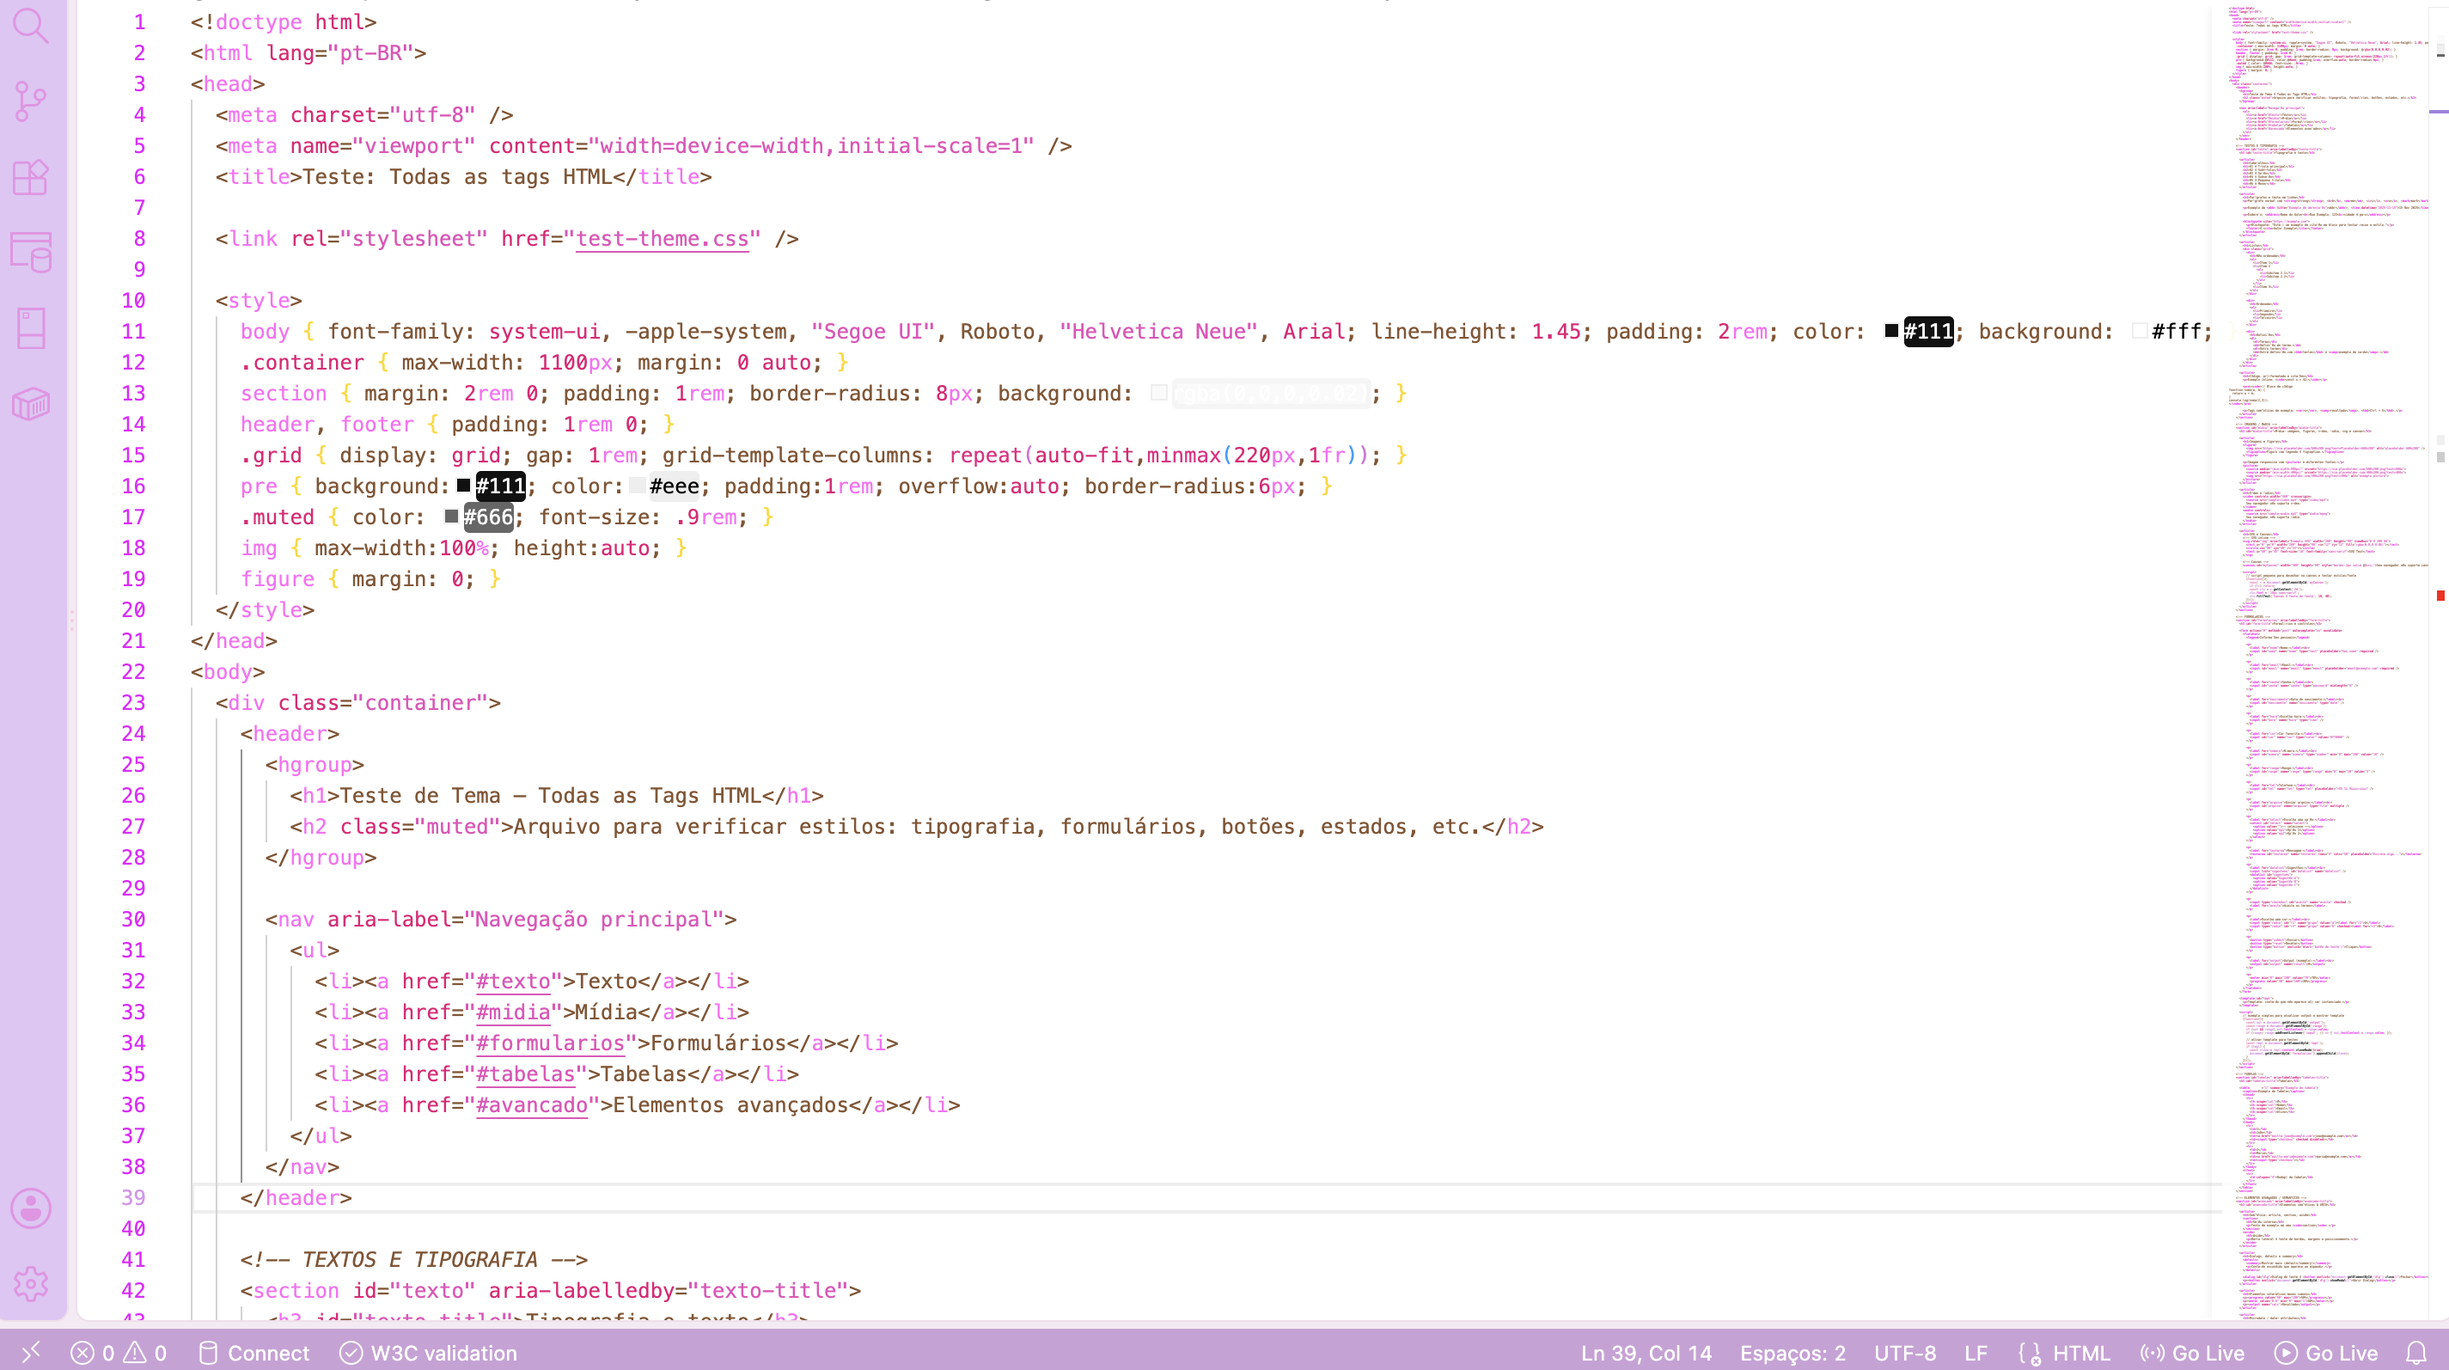
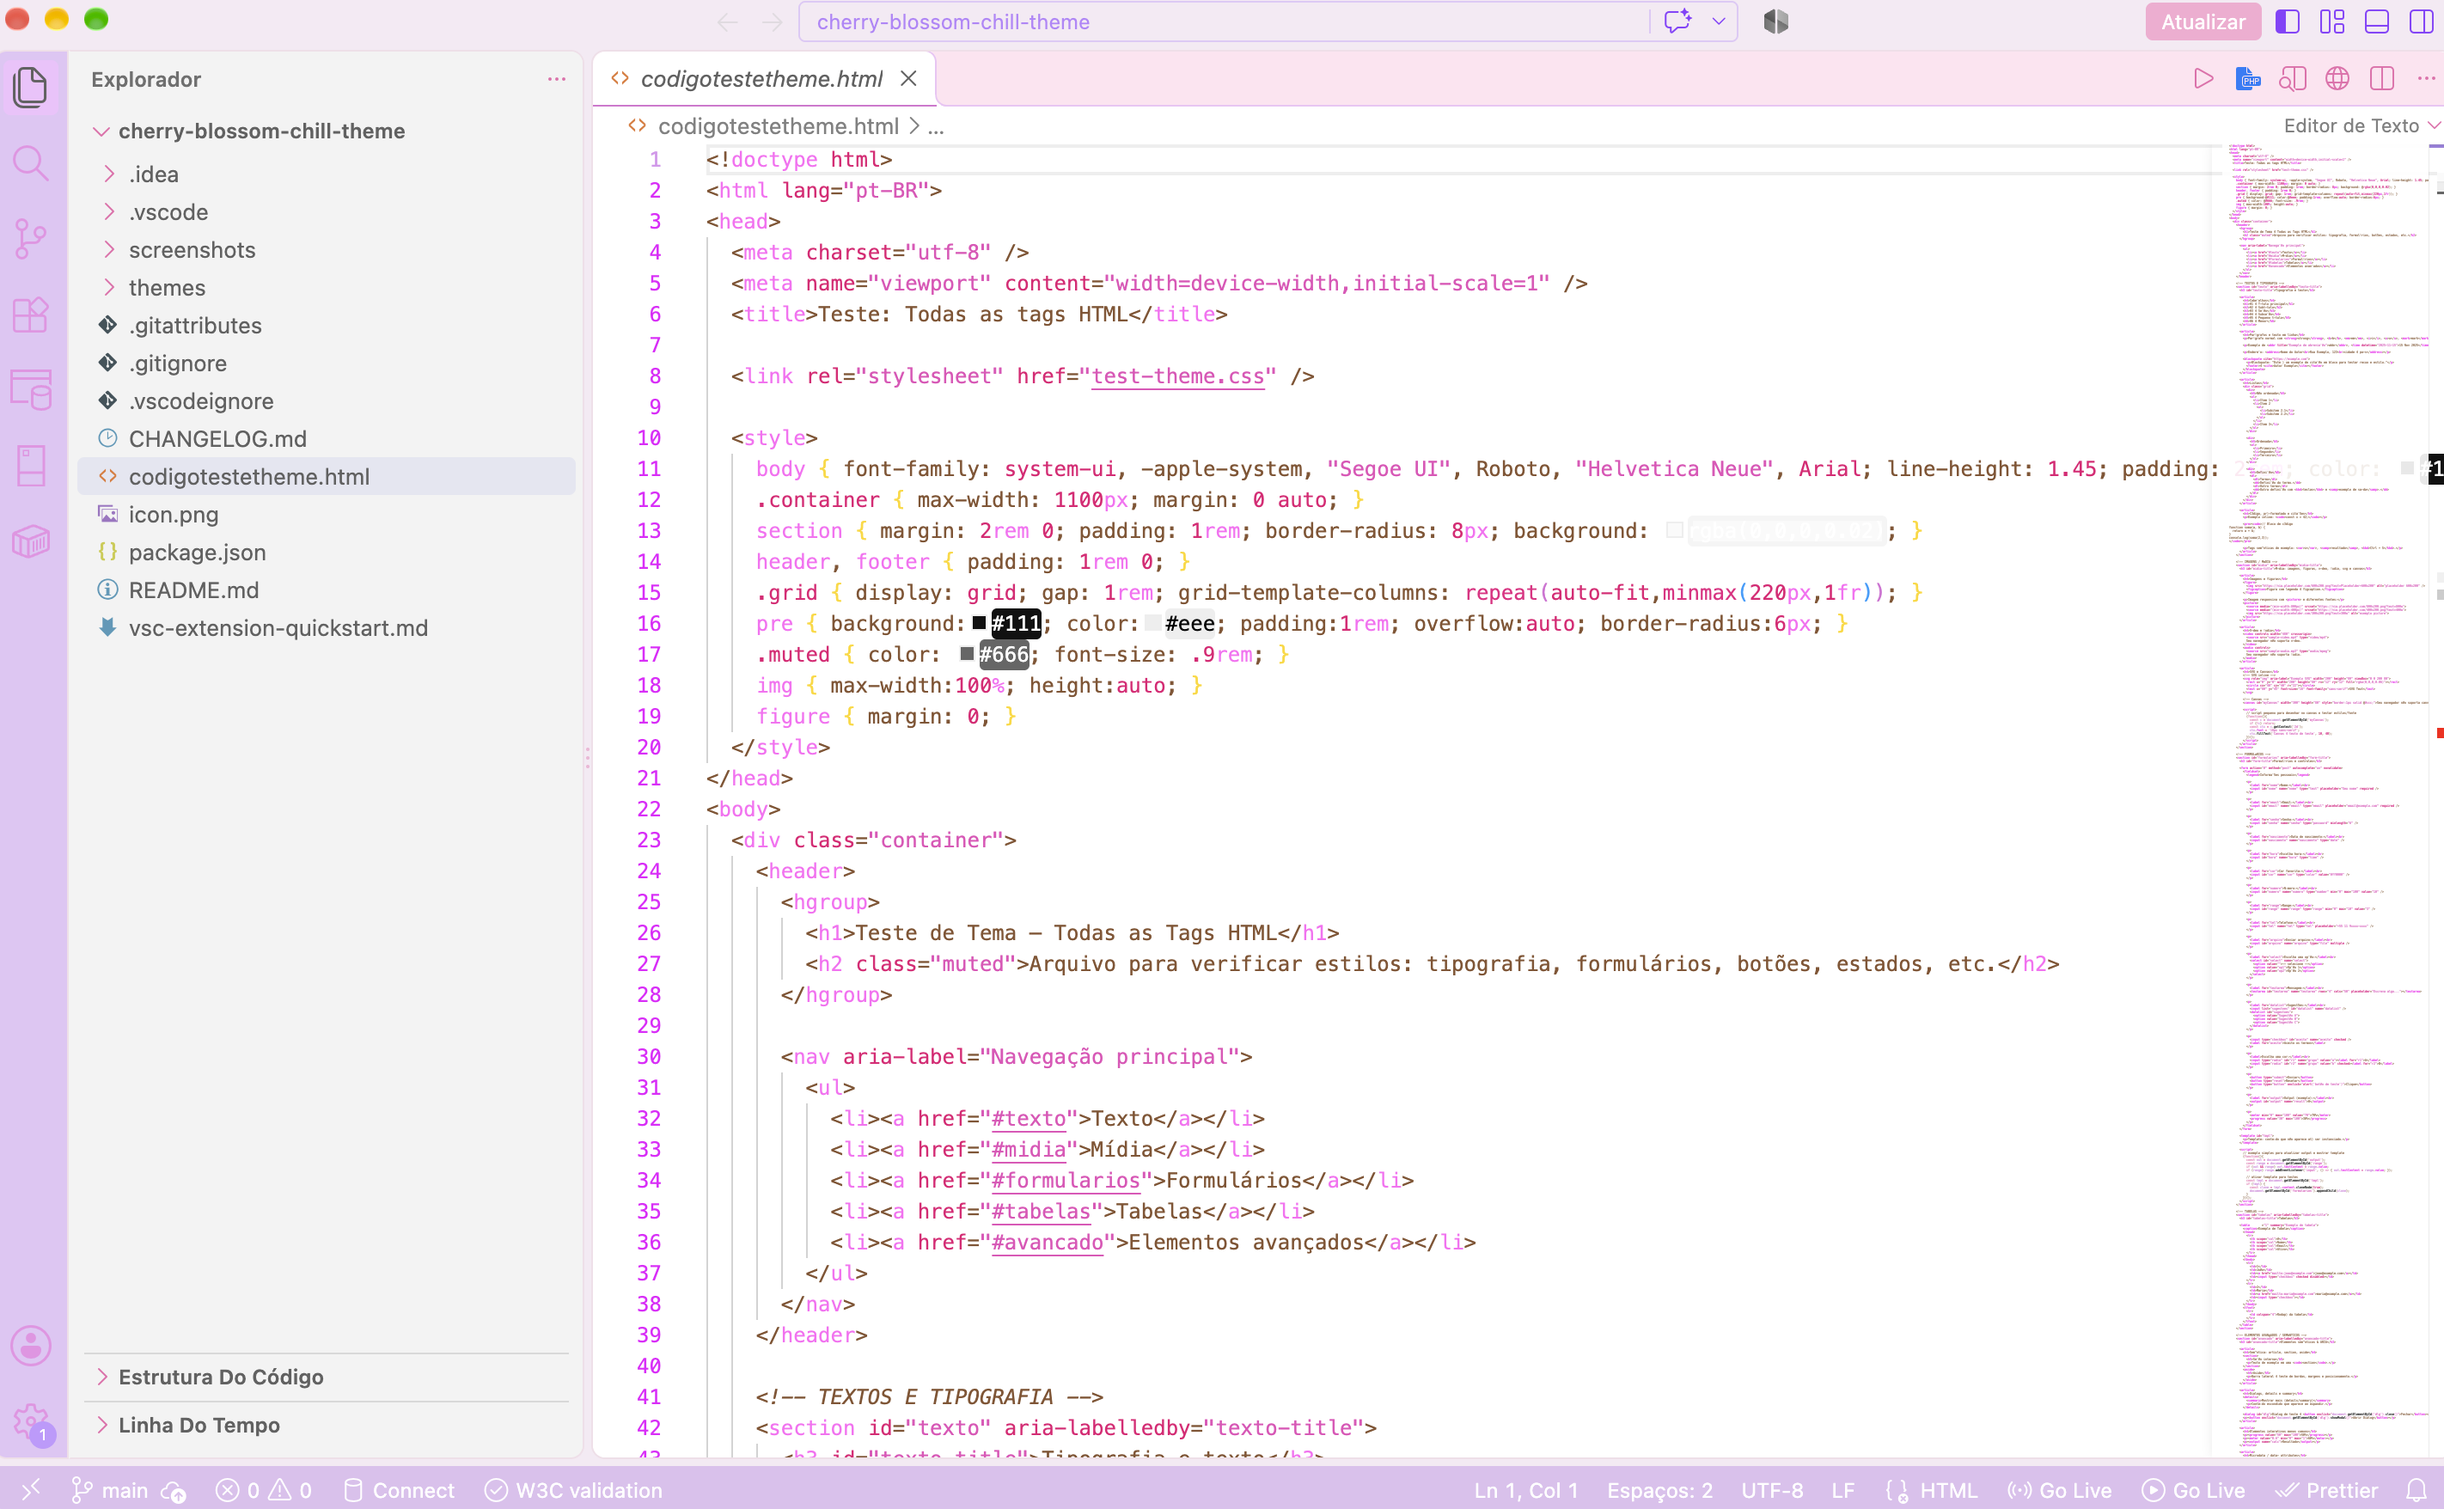
Fix dark theme filename

diff --git a/README.md b/README.md
@@ -33,6 +33,18 @@ Choose the variation that best suits your coding environment and personal prefer
 
 ---
 
+## 📸 Preview
+
+### Cherry Blossom Chill Light
+
+![Cherry Blossom Chill Light](screenshots/cherry-blossom-light.png)
+
+### Cherry Blossom Chill Dark
+
+![Cherry Blossom Chill Dark](screenshots/cherry-blossom-dark.png)
+
+---
+
 ## 📦 Installation
 
 You can install **Cherry Blossom Chill Theme** directly from the Visual Studio Code Marketplace.
@@ -64,13 +76,6 @@ I've always loved cherry blossoms and couldn't find any theme in Visual Studio C
 
 ---
 
-## 📸 Preview
-
-*Screenshots and previews coming soon.*
-
-> 💡 If you liked the theme or have any suggestions, please leave a review so I can consider them and address your needs and/or suggestions.
-
----
 
 ## 💖 Thank You
 
